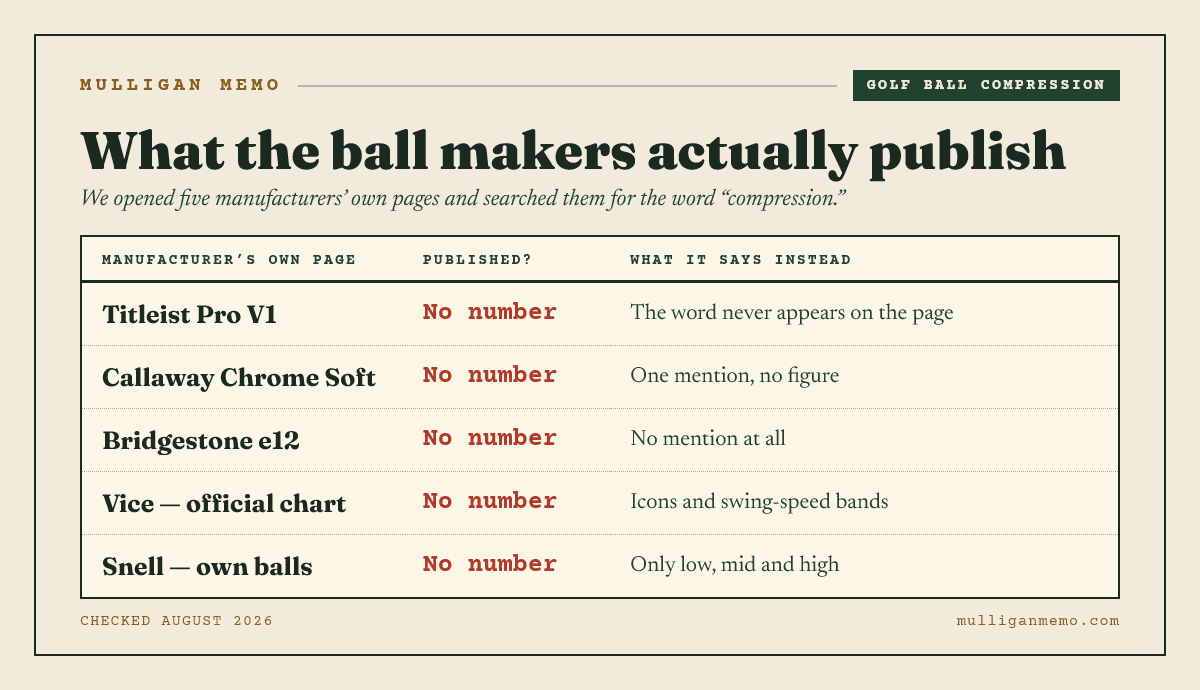
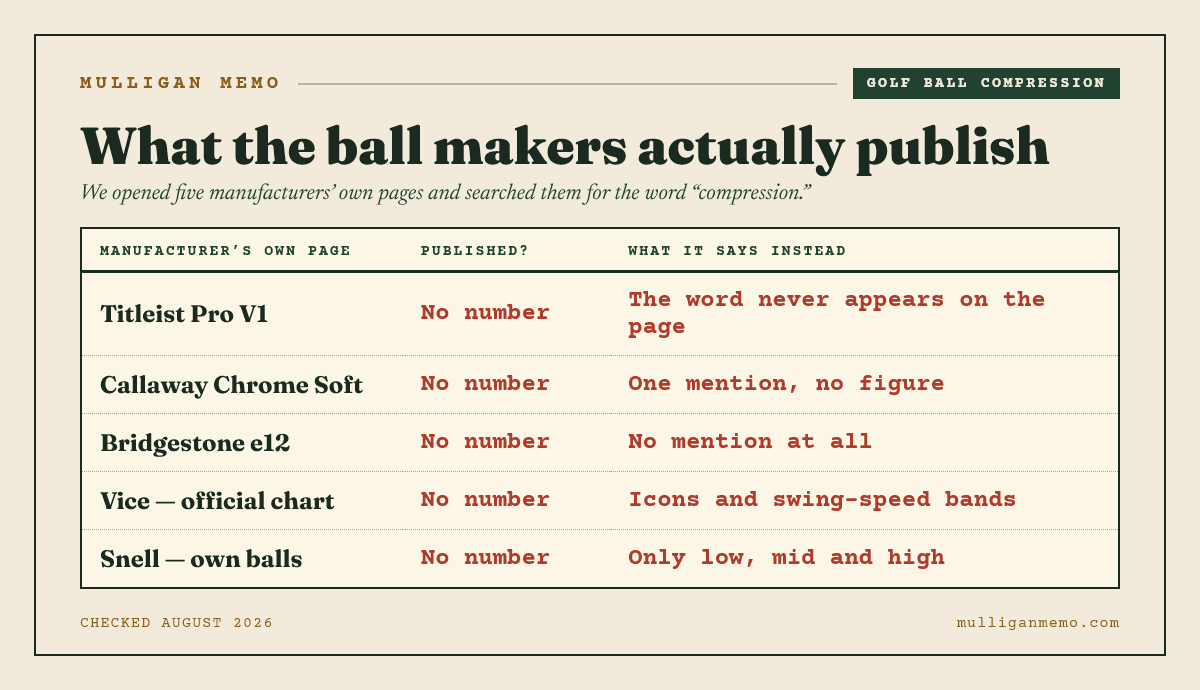
Figures and pins for the shaft-flex and room-dimensions guides
Both target SERPs put an images pack at position one, same as the
compression query, and neither page had an image. Filling that gap.

New figures, embedded with descriptive filenames, exact dimensions and
full alt text:
- golf-shaft-flex-92mph-four-answers.png - one 92 mph swing rendered
  against four published charts: Stiff on Callaway's driver chart,
  X-Stiff on Callaway's irons chart in the SAME handbook, both F3 and
  F4 on UST Mamiya's overlapping bands, Regular on the copied chart.
- golf-simulator-room-what-makers-publish.png - all eight launch
  monitors with what each maker states, "not published" shown as its
  own value rather than left blank.

Four Pinterest pins. The room-dimensions hero leads on the finding
nobody else publishes: "Your Ceiling Might Be Too High."

Generator work: make-figure-compression.mjs was a one-off, so it has
been generalised into make-figures.mjs with a FIGURES array, per-figure
canvas height, column widths and an automatic "not published" cell
style. The old script is removed and the compression figure re-renders
identically from the new one. Adding a figure is now a data entry, not
a new file.

House rule written into the generator: a figure may only contain values
verified at a primary source, and where the honest answer is that the
maker publishes nothing, the figure says so. We do not invent a tidy
number to make a better-looking graphic.

Caught before shipping: the room figure overflowed its canvas at 780px,
[…]

diff --git a/posts/golf-simulator-room-dimensions.html b/posts/golf-simulator-room-dimensions.html
@@ -323,6 +323,14 @@
 
     <p>Below is what each manufacturer publishes. Blank cells are not omissions on our part — they are things the maker does not state anywhere in the documentation linked at the end of each row. That matters, because most of the confidently specific numbers you'll find elsewhere are filling those blanks with someone's estimate.</p>
 
+    <figure class="fig">
+      <div class="frame">
+        <img src="/img/figures/golf-simulator-room-what-makers-publish.png" width="1200" height="890" loading="lazy"
+             alt="Golf simulator room dimensions by launch monitor: Garmin R10 publishes 15 ft long by 8 ft wide by 8 ft high; SkyTrak ST MAX declines to state a ceiling height; Uneekor EYE XO2 and XR require a 9 to 10 ft ceiling window; Garmin R50, Bushnell Launch Pro and Foresight GC3 publish no room requirements at all." />
+      </div>
+      <figcaption>Eight launch monitors, and what each maker states<span class="src">Mulligan Memo Research Desk, August 2026</span></figcaption>
+    </figure>
+
     <div class="glance">
       <table class="rc-table">
         <thead>

diff --git a/posts/golf-shaft-flex-chart.html b/posts/golf-shaft-flex-chart.html
@@ -275,6 +275,14 @@
 
     <p>Put the published charts side by side and take a single golfer — say a 92 mph driver swing — and the flex letter you are entitled to depends entirely on whose document you opened:</p>
 
+    <figure class="fig">
+      <div class="frame">
+        <img src="/img/figures/golf-shaft-flex-92mph-four-answers.png" width="1200" height="660" loading="lazy"
+             alt="Golf shaft flex chart comparison: a 92 mph driver swing is Stiff on Callaway's driver chart, X-Stiff on Callaway's irons chart in the same handbook, both F3 and F4 on UST Mamiya's overlapping bands, and Regular on the widely copied chart." />
+      </div>
+      <figcaption>Four published charts, one golfer, four answers<span class="src">Mulligan Memo Research Desk, August 2026</span></figcaption>
+    </figure>
+
     <div class="glance">
       <table class="rc-table">
         <thead><tr><th>Source</th><th>What 92 mph gets you</th></tr></thead>
